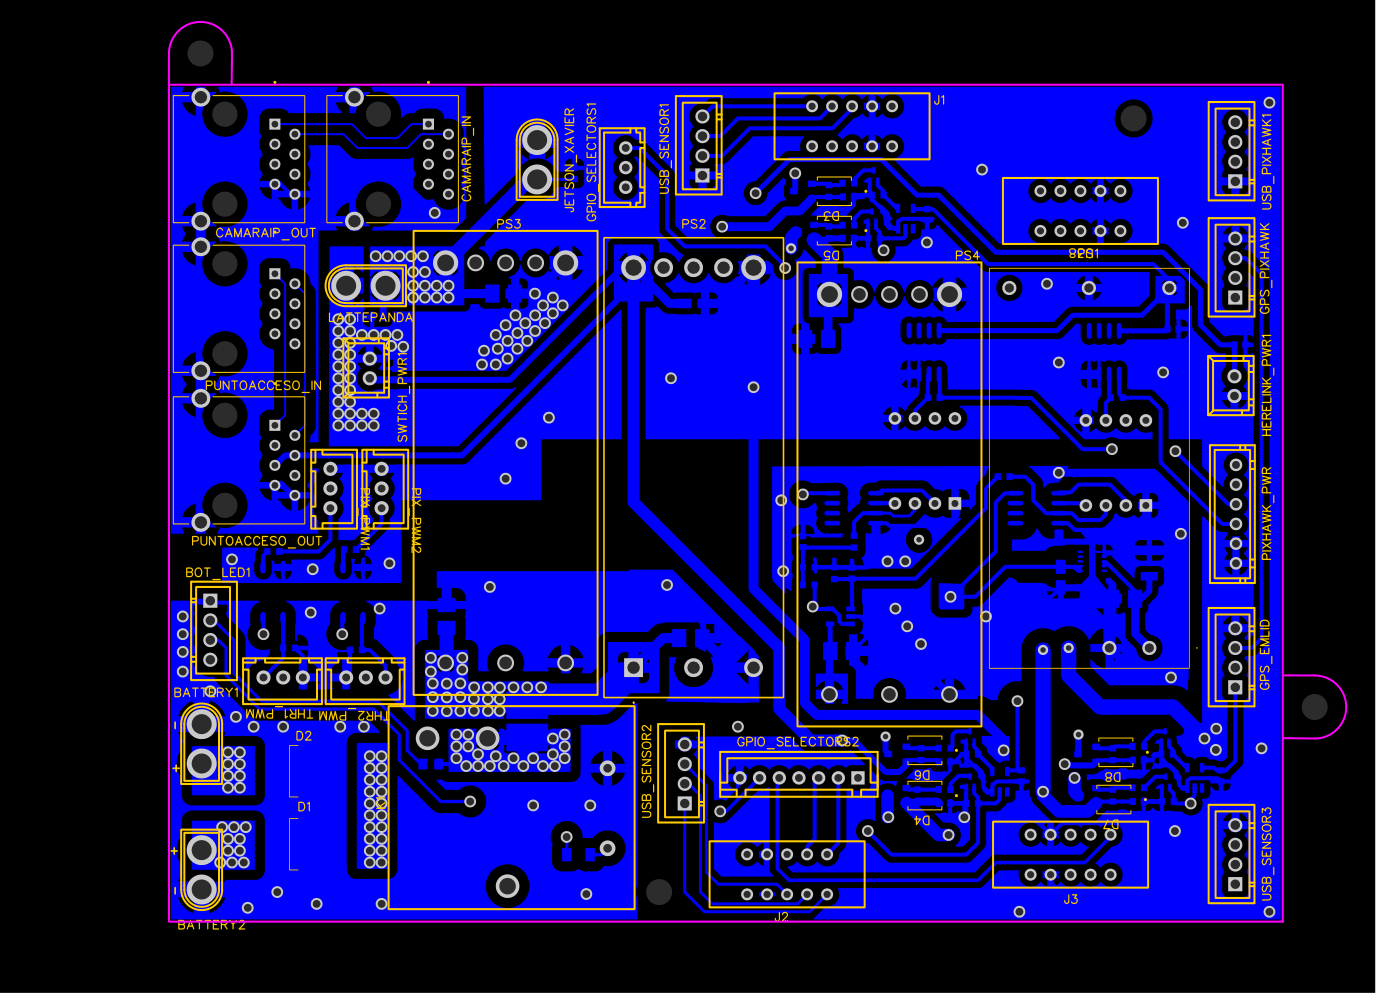
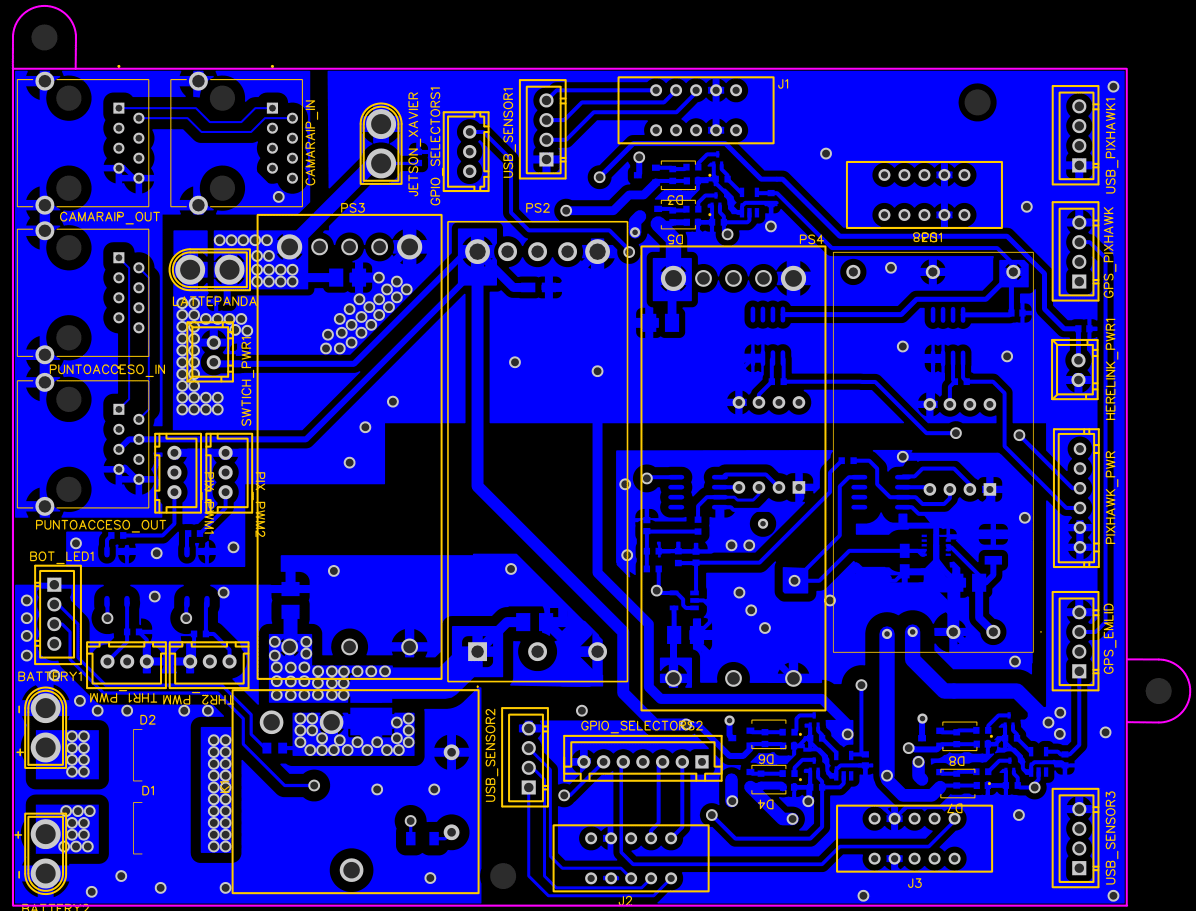
b

diff --git a/README.md b/README.md
@@ -43,11 +43,9 @@ The main PCB managed power distribution to all sensors, the onboard computer, th
 - Voltage selection for sensors
 - Integrated **Ethernet switch** for communication with Tumivision, **PTZ camera**
 
-<p align="center">
-  <img src="./usv/principal/principal_top.png" alt="Main PCB Design" width="250"/>
-  <img src="./usv/principal/principal_bottom.png" alt="Main PCB 3D Model" width="250"/>
-  <img src="./usv/principal/principal_2D.png" alt="Main PCB Assembled" width="250"/>
-</p>
+|                                                             |                                                                |                                                            |     |
+| ----------------------------------------------------------- | -------------------------------------------------------------- | ---------------------------------------------------------- | --- |
+| <img src="./usv/principal/principal_top.png" width='300' /> | <img src='./usv/principal/principal_bottom.png' width='300' /> | <img src='./usv/principal/principal_2D.png' width='300' /> |
 
 ### 📡 Communication PCB
 
